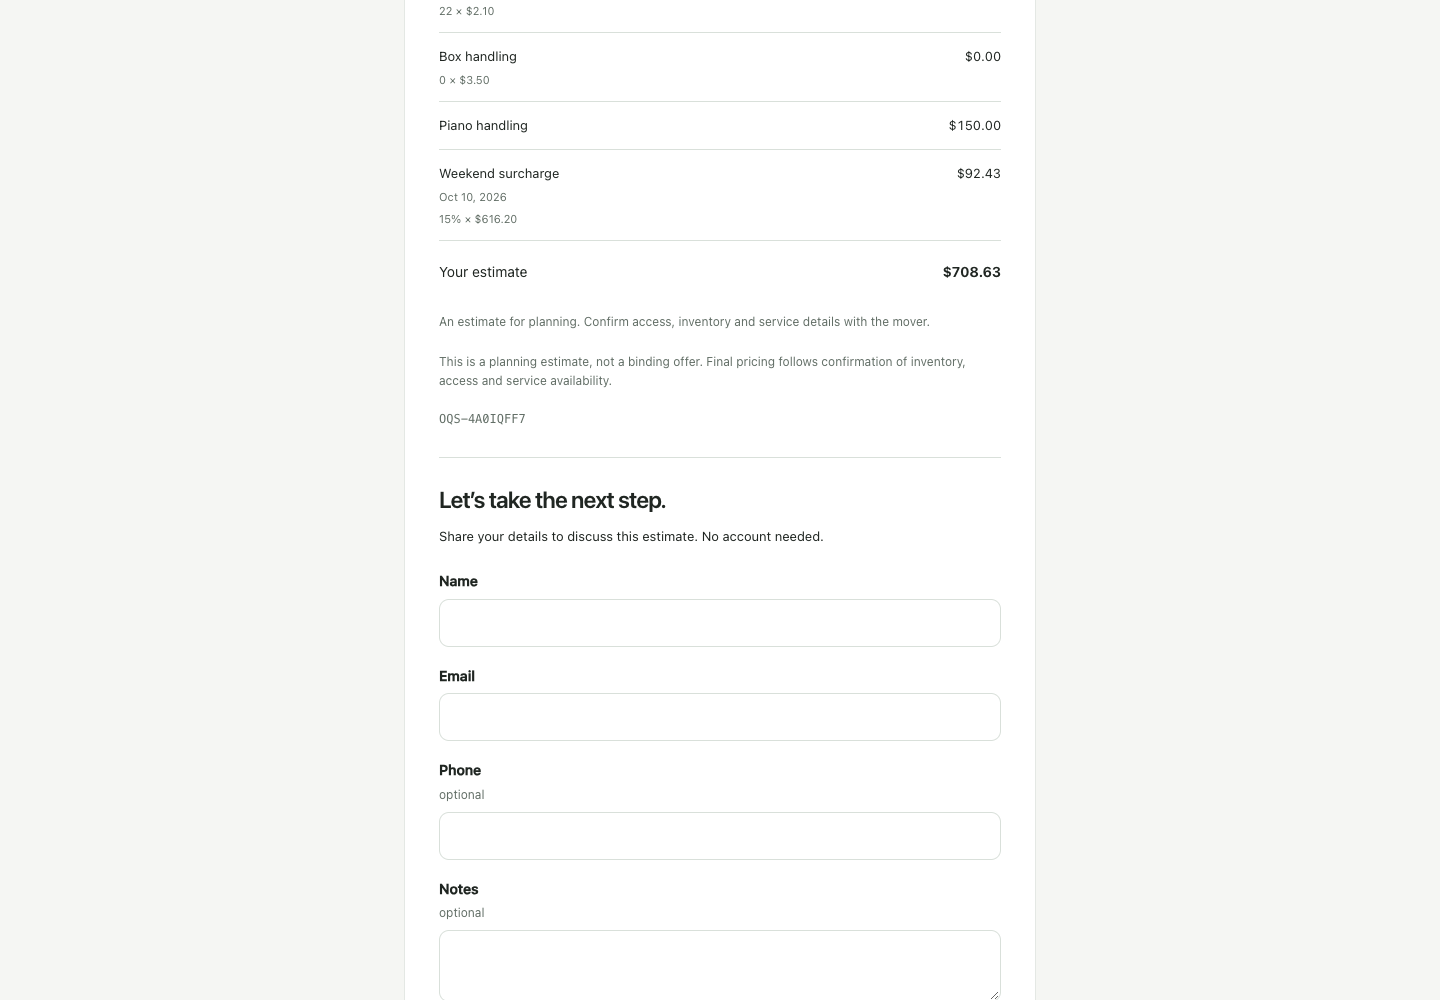
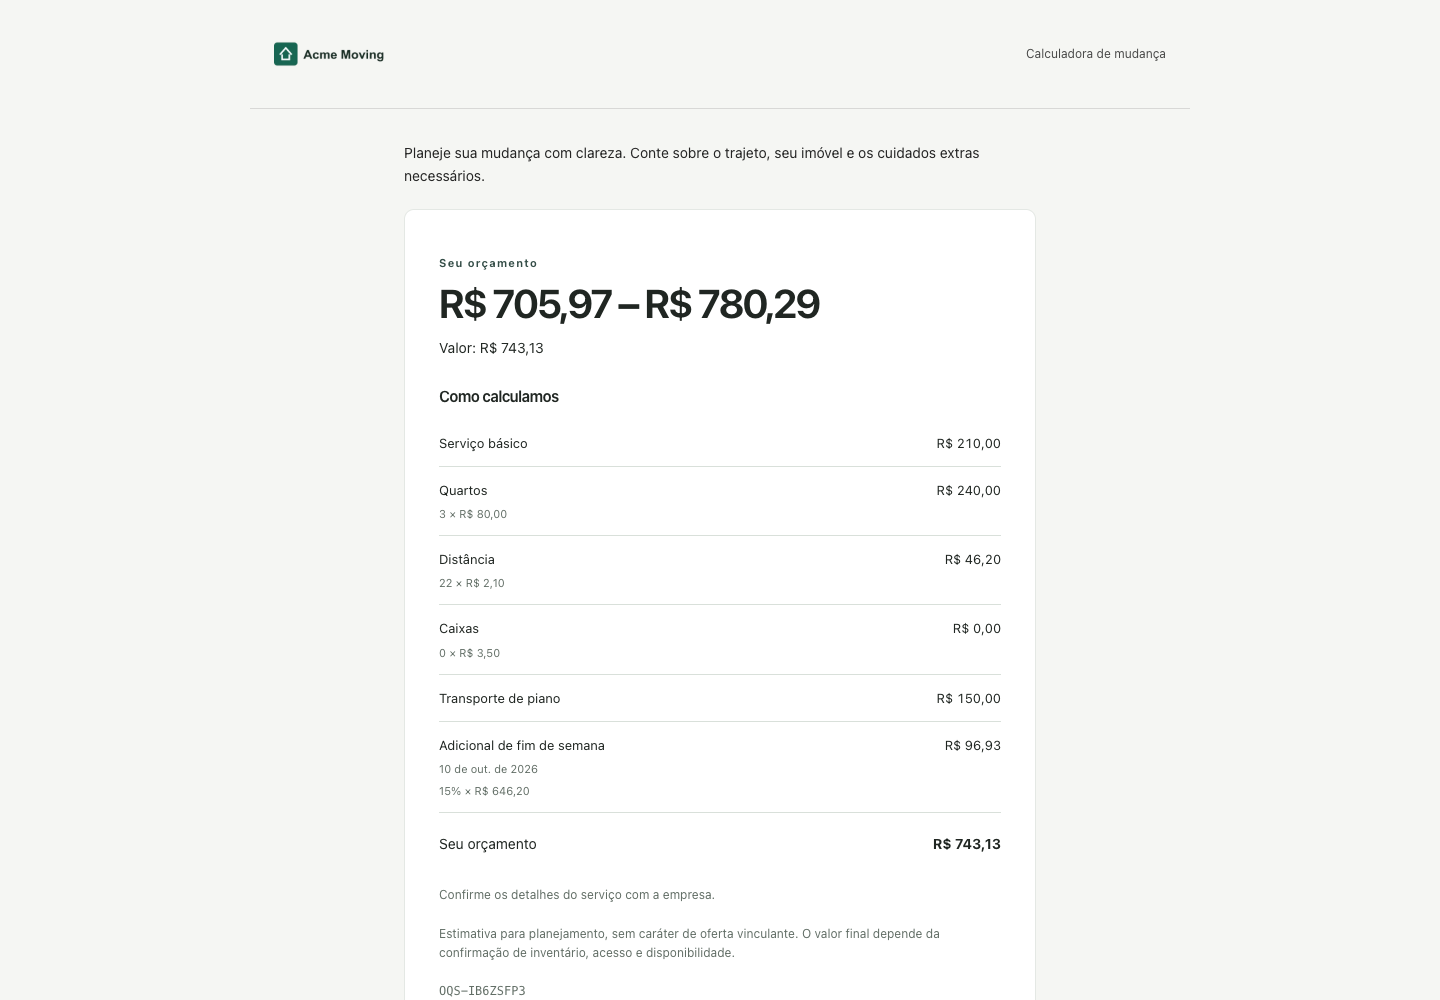
docs: finish release screenshots and event delivery guidance

diff --git a/README.md b/README.md
@@ -9,6 +9,10 @@ operation needs PostgreSQL and no proprietary cloud service.
 
 ![OpenQuoteStack estimator builder with fictional Acme Moving data](docs/images/builder.png)
 
+Real application views with fictional data: [dashboard](docs/images/dashboard.png),
+[pricing rules](docs/images/pricing.png), [public calculator](docs/images/public-estimator.png),
+[Portuguese result](docs/images/result.png), and [analytics](docs/images/analytics.png).
+
 **0.2.0-alpha.1** is an early public preview. Core authoring, customer quoting and
 developer integrations work; account recovery, invitations and data-erasure
 workflows are still planned. Read the [limitations](#current-limitations) before

diff --git a/docs/adr/0010-internal-event-model.md b/docs/adr/0010-internal-event-model.md
@@ -17,7 +17,8 @@ A message broker adds infrastructure before durable integrations exist. Calling 
 
 ## Consequences
 
-Events are best-effort, process-local and may be lost after a crash. Durable webhook/email delivery will require an outbox and retries. Audit history is durable; event delivery is not.
+In-process events are best-effort and may be lost after a crash. Audit history is durable.
+External webhook/email delivery uses the transactional outbox and retries described below.
 
 Durable external delivery is defined by [ADR-0016](0016-transactional-outbox-and-postgres-jobs.md).
 The in-process bus remains available for best-effort local subscribers.
